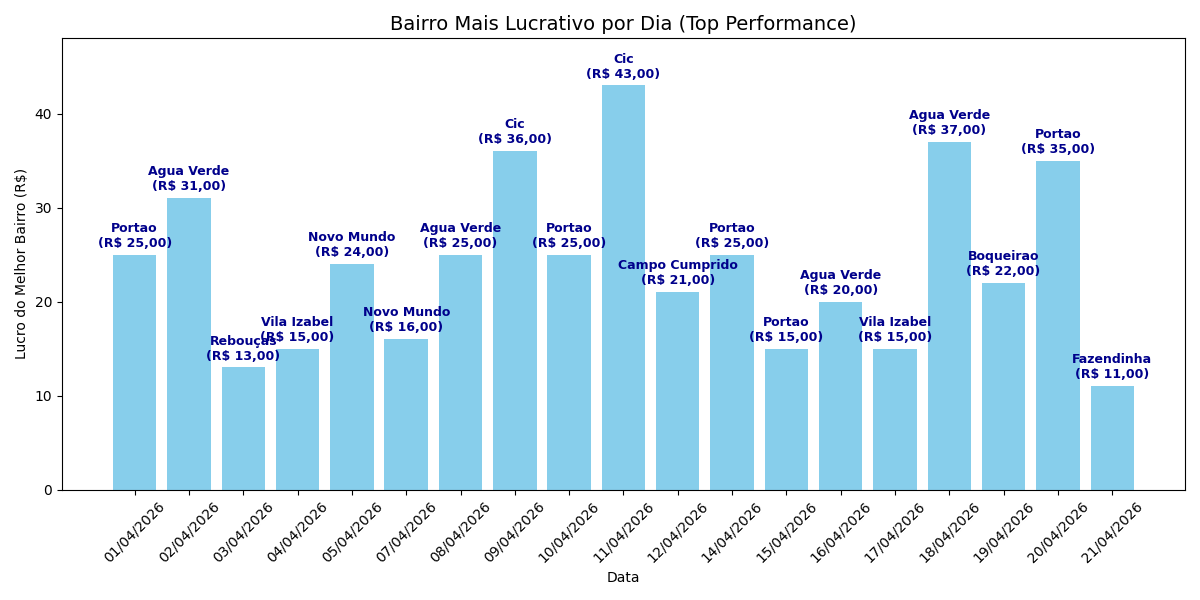
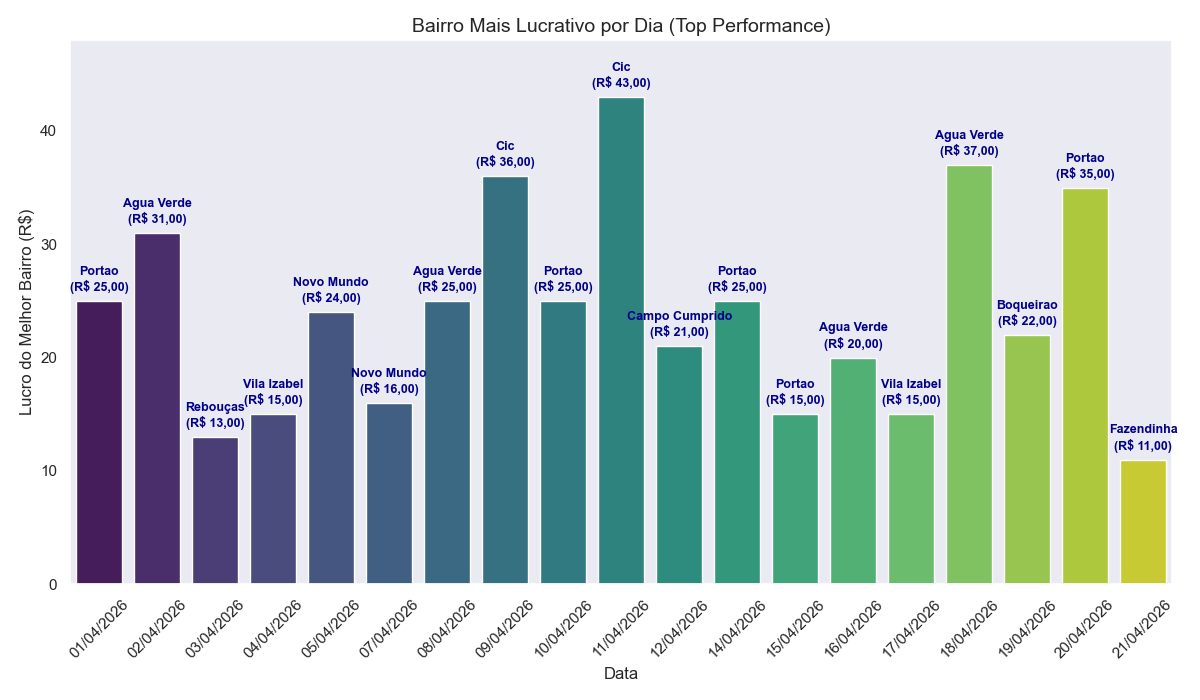
melhorando a visualizaçao grafica e definindo funcao para agilizar processamento de dados

diff --git a/filtragem de relatorio de entregas.py b/filtragem de relatorio de entregas.py
@@ -3,36 +3,44 @@
 import pandas as pd #importando biblioteca pandas para ler o arquivo csv
 import sqlite3 #importando a conexao sql para criar um banco de dados
 import matplotlib.pyplot as plt #importando a biblioteca matplot para exibir relatorios em forma de grafico 
+import seaborn as sns #biblioteca que deixa os graficos mais bonitos
 
 #Carregando os dados
 df = pd.read_csv('rota1.csv', sep = ';') #lendo o arquivo csv e transformando em data frame
  #exibindo o data frame
 print(df)
 
-df.columns = df.columns.str.strip().str.lower() #tirando espaços e formatando as strings das colunas para caixa baixa
-df.columns = df.columns.str.replace(' ', '_') #tranformando espaços entre as palavras em _ para melhor gerenciamento de variaveis
-print(df.columns) #exibindo colunas para garantir a formataçao
-df['taxa'] = df['taxa'].str.replace('R$', '', regex=False).str.replace(',', '.') #tirando o R$ para o python ler como numero e tranformando virgulas em pontos para serem lidos adequadamente
-df['taxa'] = pd.to_numeric(df['taxa'], errors='coerce') # Garantindo que é formato float
-df = df.dropna(subset=['taxa']) # Removendo entregas sem valor registrado (0)
-df['bairro'] = df['bairro'].str.strip().str.lower() # Padronizando os nomes das rotas por garantia
-df['bairro'] = df['bairro'].str.title() #aqui deixa a primeira letra maiuscula da palavra padronizado para todos
-print(df)
-coleta_dt =  pd.to_datetime(df['pedido_coletado'],format='%H:%M')  #formatando a coluna pedido coletado para o tipo data
-entrega_dt = pd.to_datetime(df['pedido_entregue'],format ='%H:%M') #formatando a coluna pedido coletado para o tipo data
+def limpando_dados(df): #criando funcao para facilitar o trabalho do processamento
 
-diferenca = entrega_dt - coleta_dt#calculo de tempo da coleta ate a entrega
-df['tempo_entrega(min)'] = diferenca.dt.total_seconds() / 60 #adicionando coluna tempo_entrega para exibir o tempo gasto da coleta ate a entrega formatado em minutos
-df['pedido_coletado'] = coleta_dt.dt.strftime('%H:%M') #padronizando a coluna pedido_coletado em hora e minuto
-df['pedido_entregue'] = entrega_dt.dt.strftime('%H:%M') #padronizando a coluna pedido_entregue em hora e minuto
-print(df)
-# Removendo erros (entregas negativas)
-df = df[df['tempo_entrega(min)'] > 1] #se no dataframe a entrega tiver tempo negativo ou igual a zero ela nao sera exibida, só as que tiverem mais doque 1 min de tempo entre a coleta e a entrega
-print('bibibi')
-print(df)
-print("Dados limpos e prontos!")
+    df.columns = df.columns.str.strip().str.lower().str.replace(' ', '_')#tirando espaços e formatando as strings das colunas para caixa baixa #tranformando espaços entre as palavras em _ para melhor gerenciamento de variaveis
+    print(df.columns) #exibindo colunas para garantir a formataçao
 
+    df['taxa'] = df['taxa'].str.replace(r'[R\$\s]', '', regex=True).replace(',', '.', regex=True) #tirando o R$ para o python ler como numero e tranformando virgulas em pontos para serem lidos adequadamente
+    df['taxa'] = pd.to_numeric(df['taxa'], errors='coerce') # Garantindo que é formato float
+
+    
+
+    df['bairro'] = df['bairro'].str.strip().str.lower() # Padronizando os nomes das rotas por garantia
+    df['bairro'] = df['bairro'].str.title() #aqui deixa a primeira letra maiuscula da palavra padronizado para todos
+    
+
+    coleta_dt =  pd.to_datetime(df['pedido_coletado'],format='%H:%M',errors='coerce')  #formatando a coluna pedido coletado para o tipo data e definindo que nao de erro quando a hora estiver vazia
+    entrega_dt = pd.to_datetime(df['pedido_entregue'],format ='%H:%M',errors="coerce") #formatando a coluna pedido coletado para o tipo data e definindo que nao de erro quando a hora estiver vazia
+
+    diferenca = entrega_dt - coleta_dt#calculo de tempo da coleta ate a entrega
+    df['tempo_entrega(min)'] = diferenca.dt.total_seconds() / 60 #adicionando coluna tempo_entrega para exibir o tempo gasto da coleta ate a entrega formatado em minutos
+    df['pedido_coletado'] = coleta_dt.dt.strftime('%H:%M') #padronizando a coluna pedido_coletado em hora e minuto
+    df['pedido_entregue'] = entrega_dt.dt.strftime('%H:%M') #padronizando a coluna pedido_entregue em hora e minuto
+    
+
+    # Removendo erros (entregas negativas)
+    return df[(df['tempo_entrega(min)'] > 1) & (df['taxa'] >0)].dropna()#se no dataframe a entrega tiver tempo negativo ou igual a zero ela nao sera exibida, 
+                                                                            #só as que tiverem mais doque 1 min de tempo entre a coleta e a entrega
+                                                                            #Removendo entregas sem valor registrado (0)
+
+df = limpando_dados(df)
 print(df) #exibindo o dataframe para ver os dados formatados e limpos
+print("Dados limpos e prontos!")
 
 
 
@@ -65,20 +73,24 @@ GROUP BY bairro
 ORDER BY quantidade_entregas DESC;
 """#filtrando o a contagem de entregas em cada respectivo bairro no mes
 
+with sqlite3.connect('logistica_pessoal.db') as conn:
+    df.to_sql('entregas', conn, if_exists='replace', index=False)
+    df_top = pd.read_sql(query_top_dia, conn)#variavel que recebeu os dados da query do top do dia e a conexao com o banco de dados
+    df_volume = pd.read_sql(query_volume_bairro, conn)#variavel que recebeu os dados da query do volume do bairro no mes e a conexao com o banco de dados
+     #o with fecha a conexao com o banco de dados automaticamente, pois as variaveis anteriores ja armazenaram os dados que preciso para exibir os graficos
 
-df_top = pd.read_sql(query_top_dia, conn)#variavel que recebeu os dados da query do top do dia e a conexao com o banco de dados
-df_volume = pd.read_sql(query_volume_bairro, conn)#variavel que recebeu os dados da query do volume do bairro no mes e a conexao com o banco de dados
-conn.close() #fechando a conexao com o banco de dados pouis as variaveis anteriores ja armazenaram os dados que preciso para exibir os graficos
-
+sns.set_theme(style="dark") #definindo o tema de fundo dos graficos
 total_entregas_bairro = df_top['quantidade_entregas'].sum() #soma das entregas no bairro a partir da variavel que recebeu os dados do Top do dia
-plt.figure(figsize=(12, 6)) #dimensoes do grafico que quero que tenha os dados coletados do top do dia
-barras = plt.bar(df_top['data_entregas'], df_top['lucro_maximo'], color='skyblue') #variavel barras recebendo os dados da data de entrega e lucro maximo para o eixo x e y do grafico
+plt.figure(figsize=(12, 7)) #dimensoes do grafico que quero que tenha os dados coletados do top do dia
+barras = sns.barplot(x=df_top['data_entregas'], y=df_top['lucro_maximo'], palette="viridis") #variavel barras recebendo os dados da data de entrega e lucro maximo para o eixo x e y do grafico
 
-for barra, bairro, qtd in zip(barras, df_top['bairro'], df_top['lucro_maximo']): #para cada barra, bairro e quantidade dentro do dicionario barras e de acordo com os dados do data frame, fazer:
+for barra, bairro, qtd in zip(barras.patches, df_top['bairro'], df_top['lucro_maximo']): #para cada barra, bairro e quantidade dentro do dicionario barras e de acordo com os dados do data frame, fazer:
     yvalor = barra.get_height() #o valor do eixo y sera o tamanho dos dados que foi pego da contagem de barra e tranformando em altura no grafico
-    plt.text(barra.get_x() + barra.get_width()/2, yvalor + 0.5, #o texto que sera exibido na barra ao decorrer do eixo x e uma distancia de 0,5 da borda da barra
-             f'{bairro}\n(R$ {int(qtd)},00)', #textos que vao aparecer no em cima de cada bairra com seu respectivo dado filtrado do bairro e a quantidade em inteiros
-             ha='center', va='bottom', fontweight='bold', color='darkblue', fontsize=9) #formatacao do texto, centralizada, em cima da barra, negrito, cor azul e tamanho da fonte 9
+    barras.annotate(f'{bairro}\n(R$ {int(qtd)},00)',#o texto que sera exibido na barra ao decorrer do eixo x e uma distancia de 0,5 da borda da barra
+            xy = (barra.get_x() + barra.get_width()/2, yvalor),
+            xytext= (0,5), #textos que vao aparecer no em cima de cada bairra com seu respectivo dado filtrado do bairro e a quantidade em inteiros
+            textcoords="offset points",
+            ha='center', va='bottom', fontweight='bold', color='darkblue', fontsize=9) #formatacao do texto, centralizada, em cima da barra, negrito, cor azul e tamanho da fonte 9
 
 plt.title('Bairro Mais Lucrativo por Dia (Top Performance)', fontsize=14) #titulo do grafico com tamanho 14
 plt.xlabel('Data') #parte inferior do grafico com a legenda data 
@@ -87,13 +99,14 @@ plt.xticks(rotation=45) #direçao da rotacao do texto na legenda do eixo x
 plt.ylim(0, df_top['lucro_maximo'].max() + 5) # Dá um espaço no topo para o texto
 plt.tight_layout()#garantindo que todos as informaçoes apareçam no grafico sem areas cortadas ou incompletas
 plt.savefig('lucro_bairro_por_dia.png') #criando uma figura a partir do texto   
+sns.despine()# Remove as bordas desnecessárias
 plt.show() #exibindo a figura formada
 
 total_entregas = df_volume['quantidade_entregas'].sum() #soma das entregas no totais de todos os bairros a partir da variavel que recebeu os dados do volumes
 plt.figure(figsize=(10, 6))#dimensoes do grafico que quero que tenha os dados coletados do top do dia
 
 # Usando gráfico de barras horizontais (barh) para facilitar a leitura dos nomes
-barras_a = plt.barh(df_volume['bairro'], df_volume['quantidade_entregas'], color='salmon') #variavel barras recebendo os dados do bairro e quantidade de entregas para o eixo x e y do grafico
+barras_a = plt.barh(df_volume['bairro'], df_volume['quantidade_entregas'], color='darkred') #variavel barras recebendo os dados do bairro e quantidade de entregas para o eixo x e y do grafico
 
 for barra in barras_a: #para cada barra no dicionario barras
     tamanho = barra.get_width() #pega o valor da quantidade
